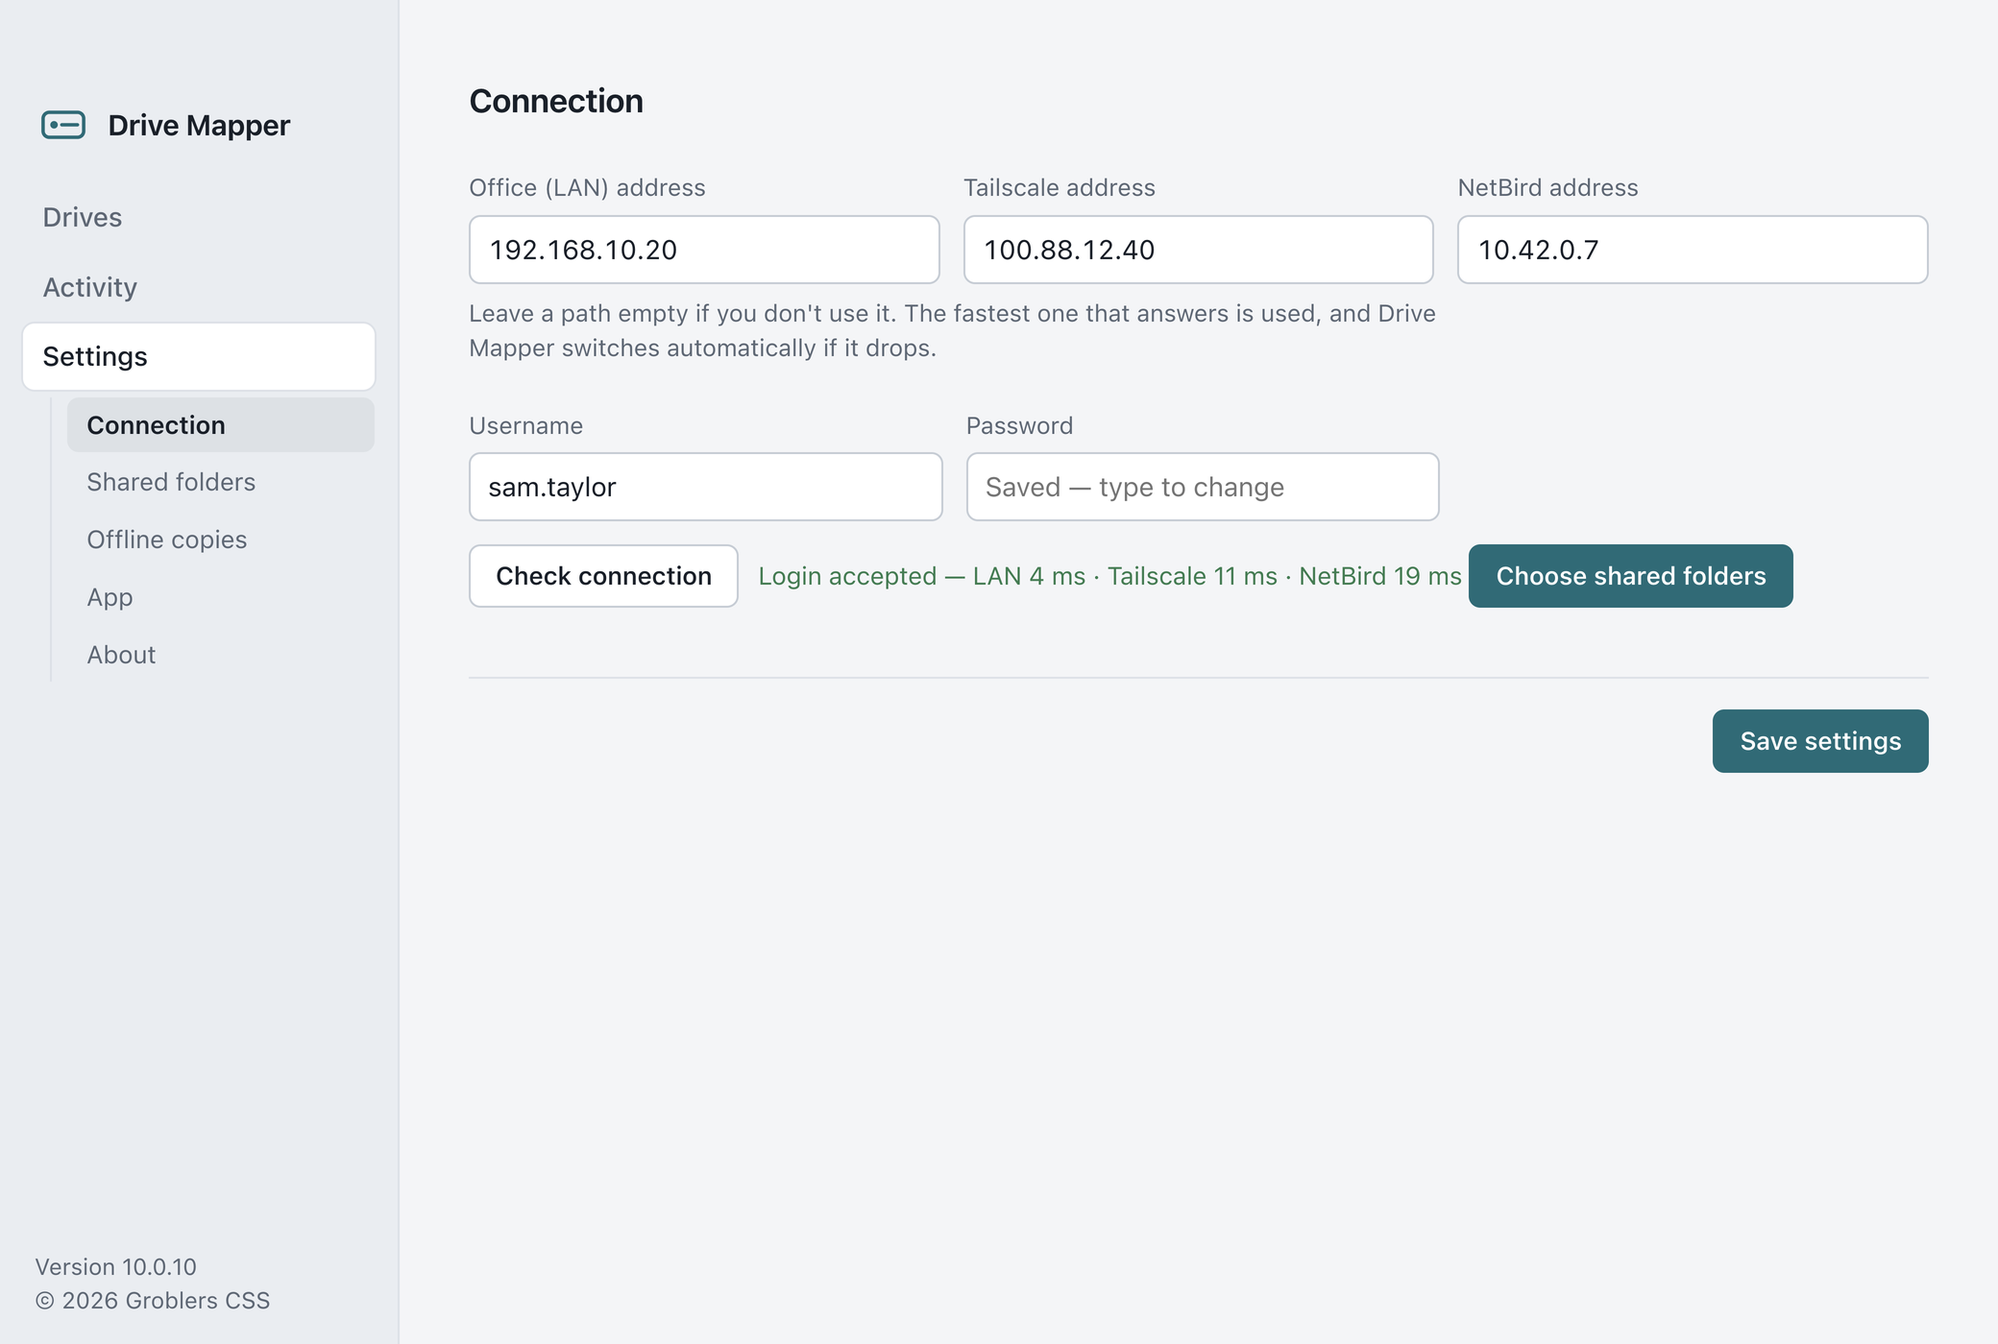
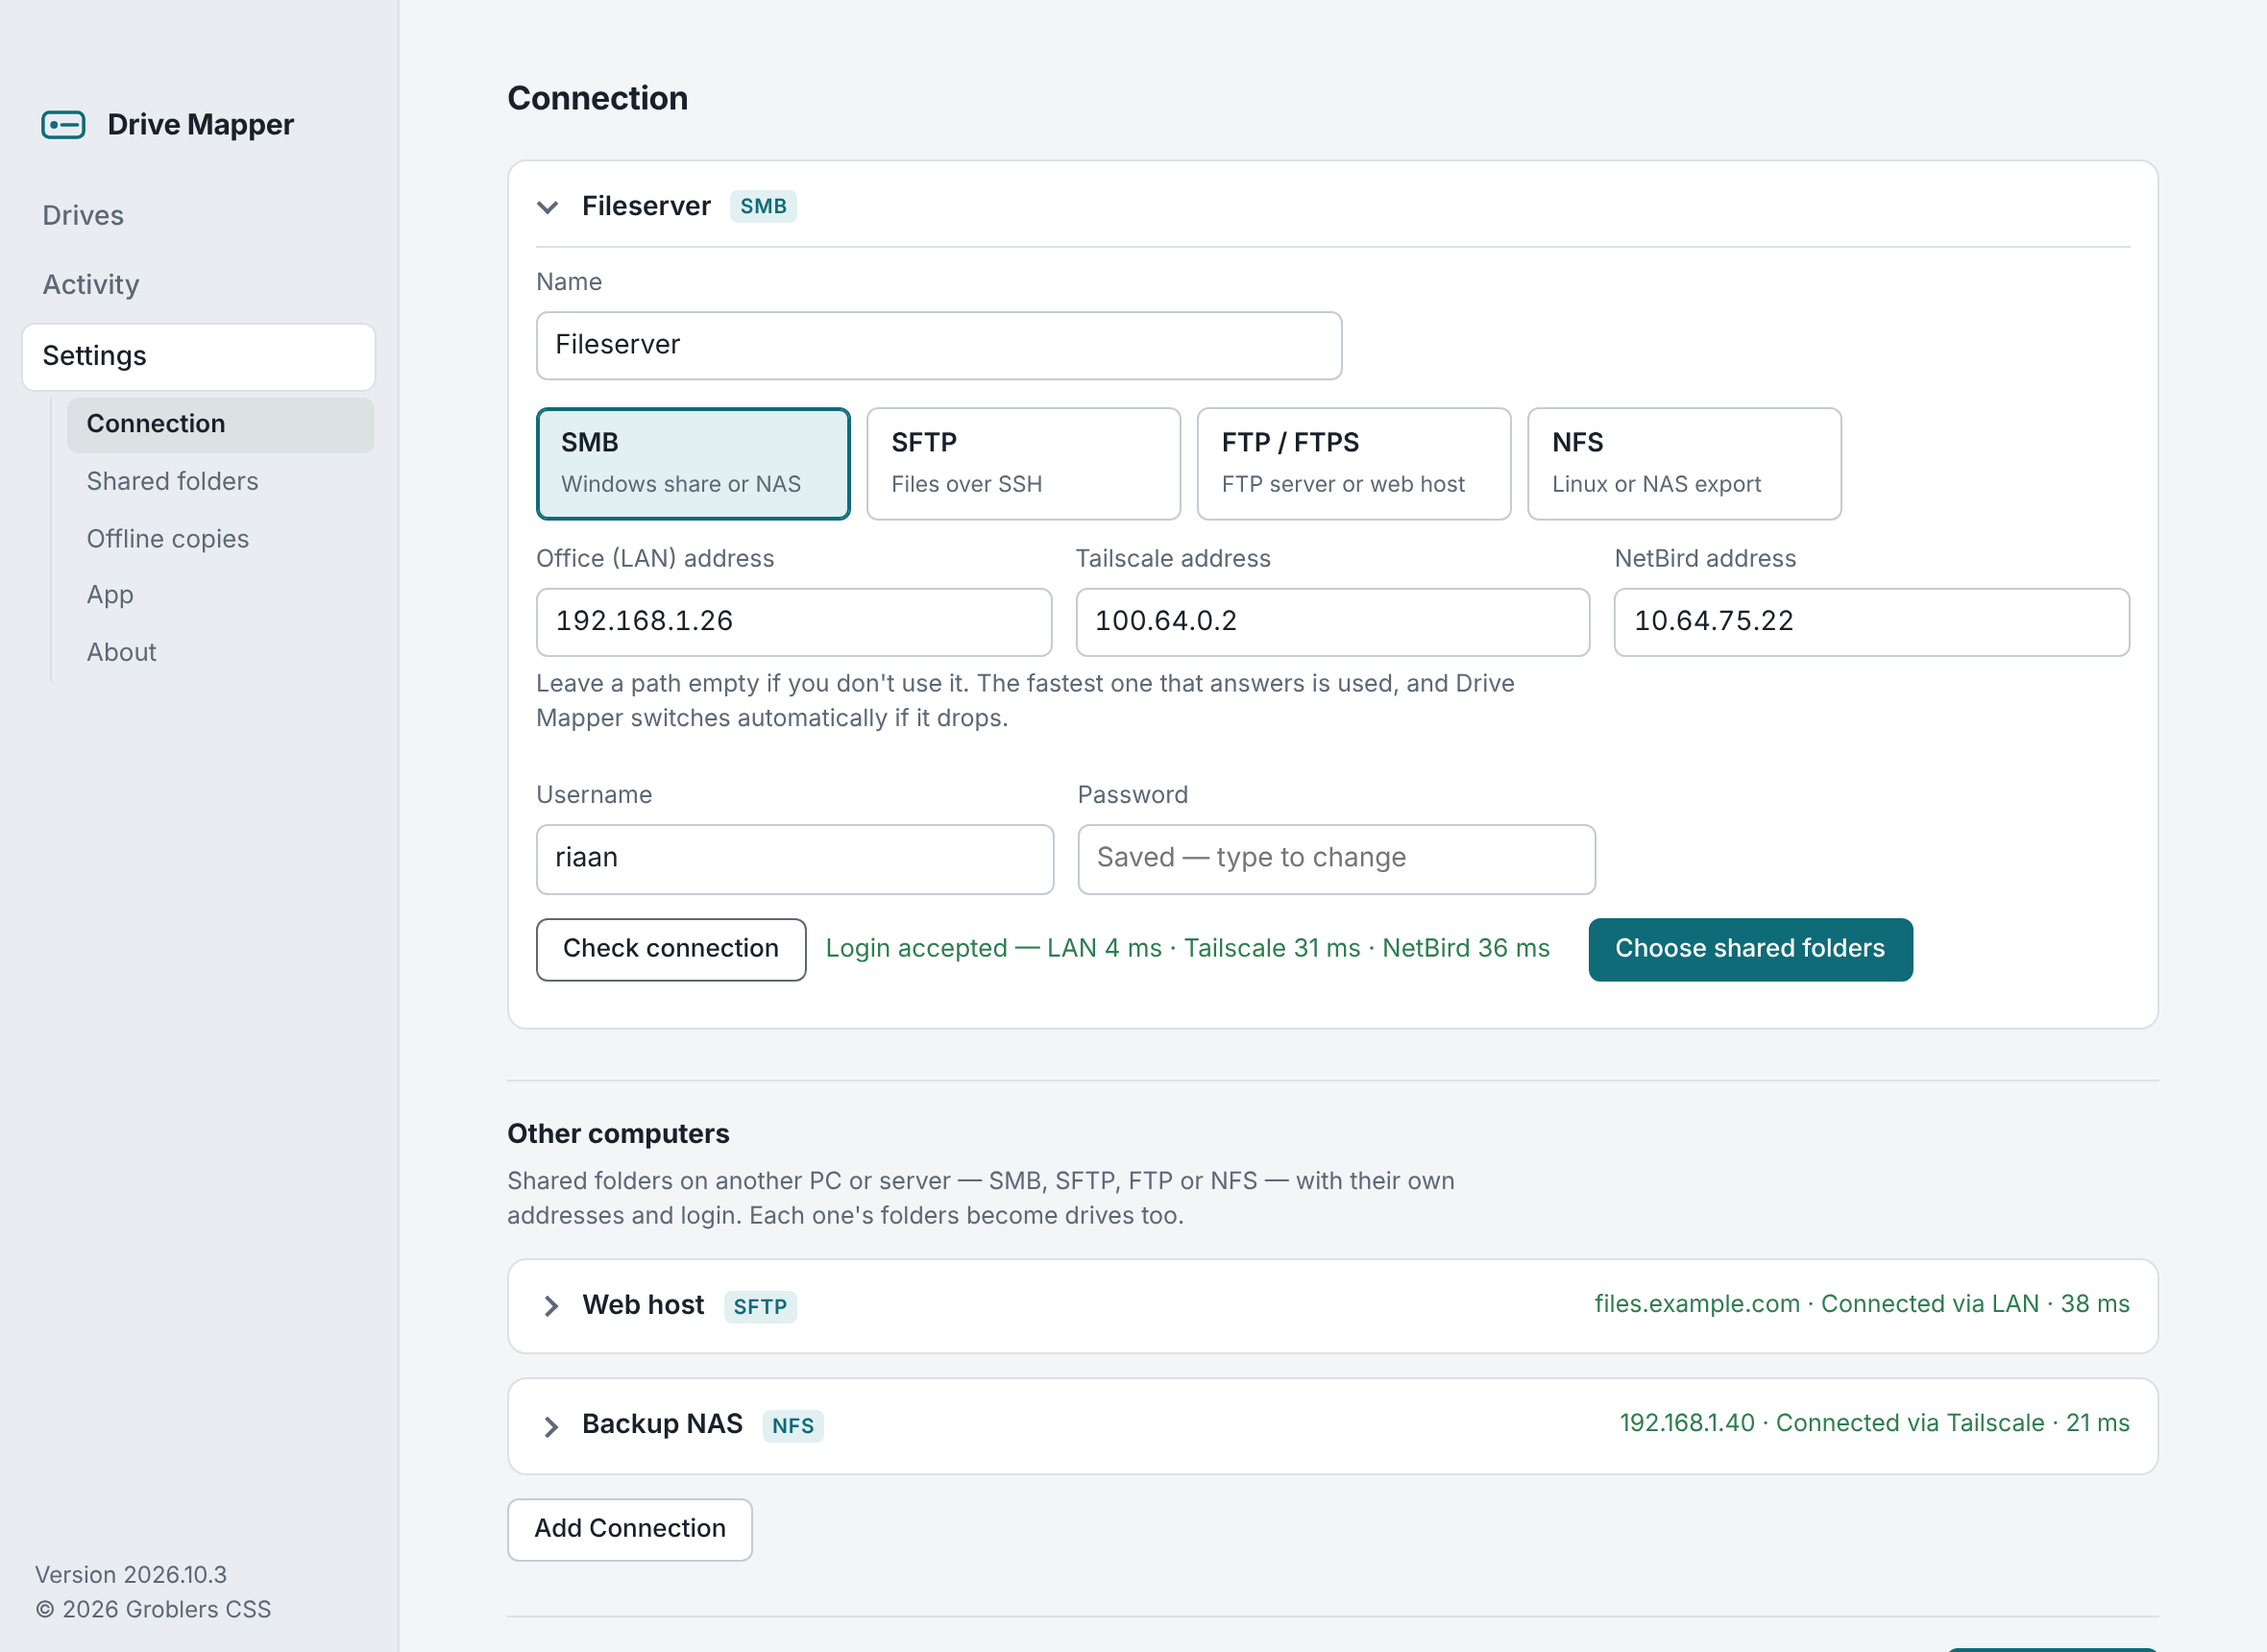
README: SMB, SFTP, FTP/FTPS and NFS connections; new Connection screenshot

diff --git a/README.md b/README.md
@@ -2,7 +2,7 @@
 
 <h1 align="center">Drive Mapper</h1>
 
-<p align="center">Your fileserver as a drive in <b>Explorer</b> and <b>Finder</b> — files download when you open them, work offline, and every change goes back to the server.</p>
+<p align="center">Your fileserver as a drive in <b>Explorer</b> and <b>Finder</b> — over <b>SMB, SFTP, FTP/FTPS or NFS</b>. Files download when you open them, work offline, and every change goes back to the server.</p>
 
 <p align="center">
   <a href="https://buymeacoffee.com/hybridrcg"><img src="https://www.buymeacoffee.com/assets/img/custom_images/orange_img.png" alt="Buy Me A Coffee" height="41"></a>
@@ -31,6 +31,8 @@ Installed copies update themselves. Older versions and change notes are under [R
 - **Every change goes back** — saves, new files and folders, renames and deletes reach the server within seconds; changes made offline are sent when the server is back.
 - **Never overwrites someone else's work** — if a file changed on the server while you were editing it, your version is saved next to it as *"Name (Riaan's copy …)"*.
 - **Deletes are recoverable** — deleted files go to a recycle folder on the share (optional).
+- **SMB, SFTP, FTP/FTPS or NFS** — a Windows share or NAS, a Linux server over SSH, an FTP server or web host, or an NFS export. Pick the type and Drive Mapper asks only what that type needs (password or SSH key file, FTPS encryption, NFS version). Mix types freely: each connection's folders become drives.
+- **Safe connections** — SSH host keys and self-signed FTPS certificates are remembered the first time and checked every time after, so you'll know if a server is ever swapped out.
 - **Office, home or on the road** — connects over the office LAN, Tailscale or NetBird, whichever works best, and switches automatically when one drops.
 
 ## Screenshots
@@ -41,7 +43,7 @@ Installed copies update themselves. Older versions and change notes are under [R
 <td width="50%"><img src="docs/screenshots/mac-keep-offline.png" alt="Keep offline: choose folders to keep on the computer"><br><sub><b>Keep offline</b> — tick folders to keep on the computer and in sync.</sub></td>
 </tr>
 <tr>
-<td><img src="docs/screenshots/mac-settings-connection.png" alt="Connection settings: LAN, Tailscale and NetBird addresses"><br><sub><b>Connection</b> — office LAN, Tailscale and NetBird; the fastest path wins and it switches automatically.</sub></td>
+<td><img src="docs/screenshots/mac-settings-connection.png" alt="Connection settings: connection type, LAN, Tailscale and NetBird addresses, and more connections folded away"><br><sub><b>Connection</b> — SMB, SFTP, FTP or NFS over office LAN, Tailscale or NetBird; the fastest path wins. Each connection folds away to one status line.</sub></td>
 <td><img src="docs/screenshots/windows-settings-shares.png" alt="Shared folders: add drives from the server's list"><br><sub><b>Shared folders</b> — pick shares from the server and choose drive letters.</sub></td>
 </tr>
 <tr>
@@ -67,7 +69,9 @@ xattr -cr "/Applications/Drive Mapper.app"
 
 (The app is not signed with an Apple Developer certificate, so macOS needs this once. Updates take care of it themselves.)
 
-Then open Drive Mapper, enter the fileserver address and login under **Settings › Connection**, and add your drives under **Settings › Shared folders**.
+Then open Drive Mapper, choose the connection type (SMB, SFTP, FTP or NFS) and enter the address and login under **Settings › Connection** — use **Add Connection** for more servers — and add your drives under **Settings › Shared folders**.
+
+**NFS on Windows** needs *Client for NFS* (Windows Pro or Enterprise: *Turn Windows features on or off › Services for NFS*).
 
 ## Roadmap
 
